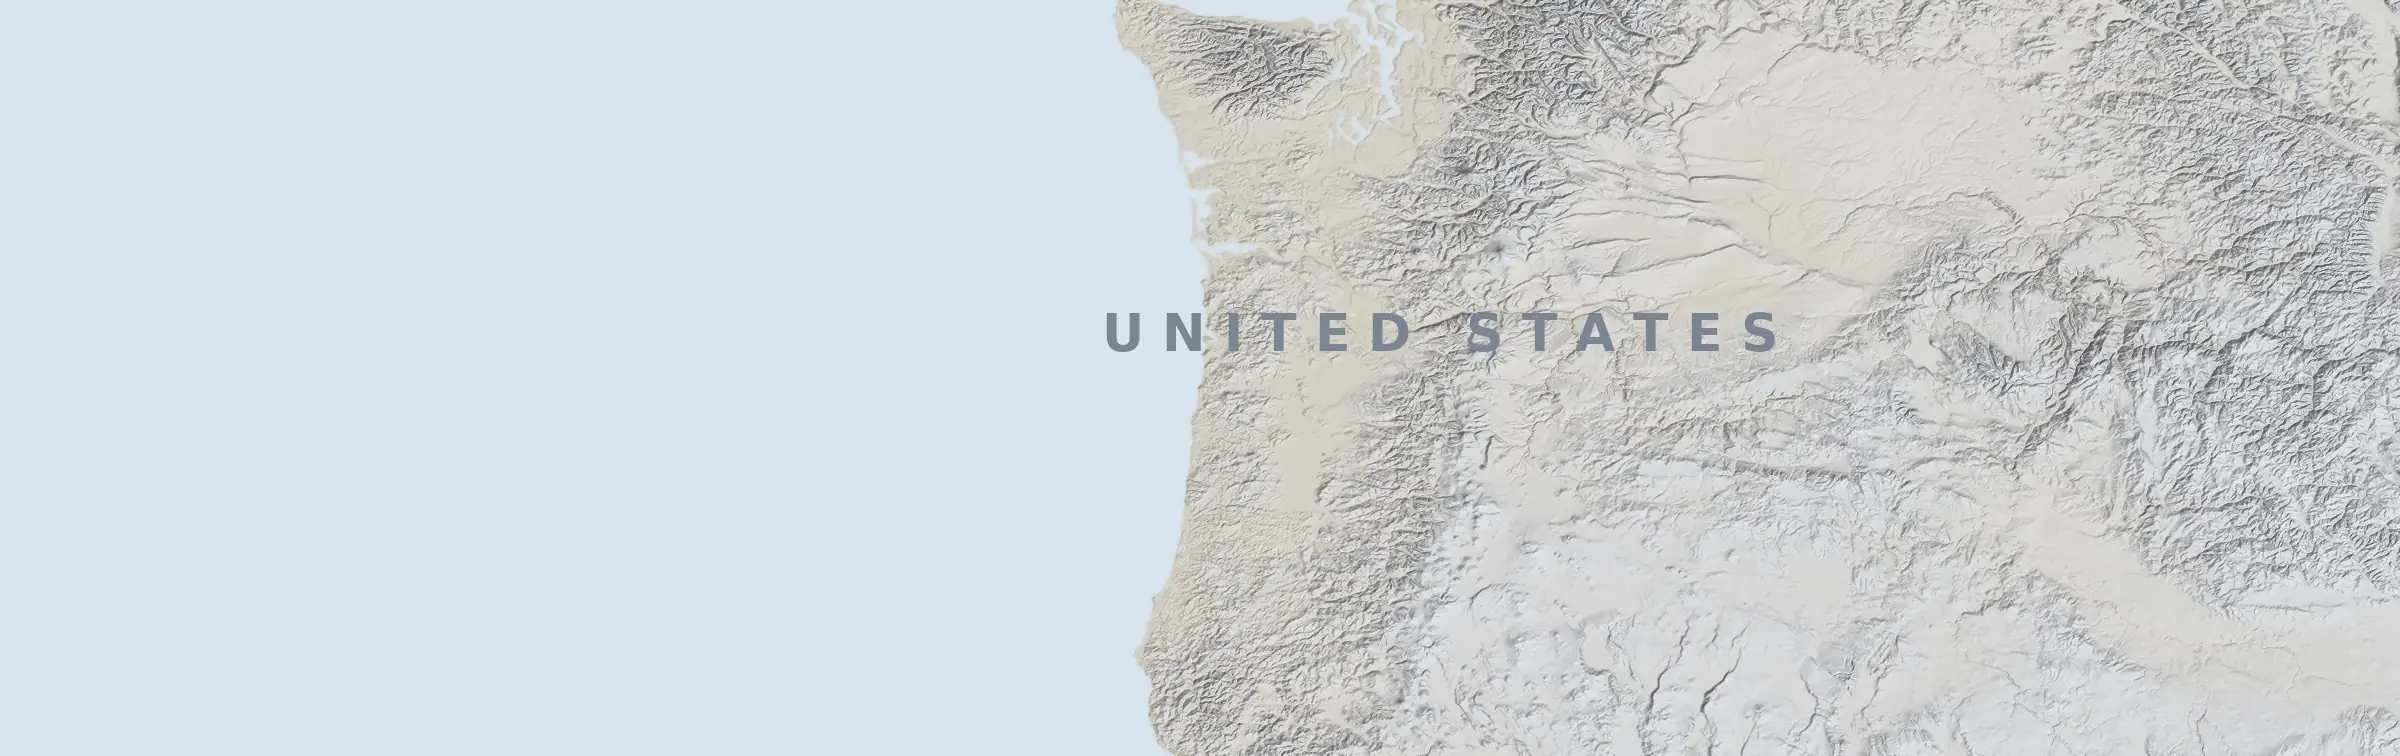
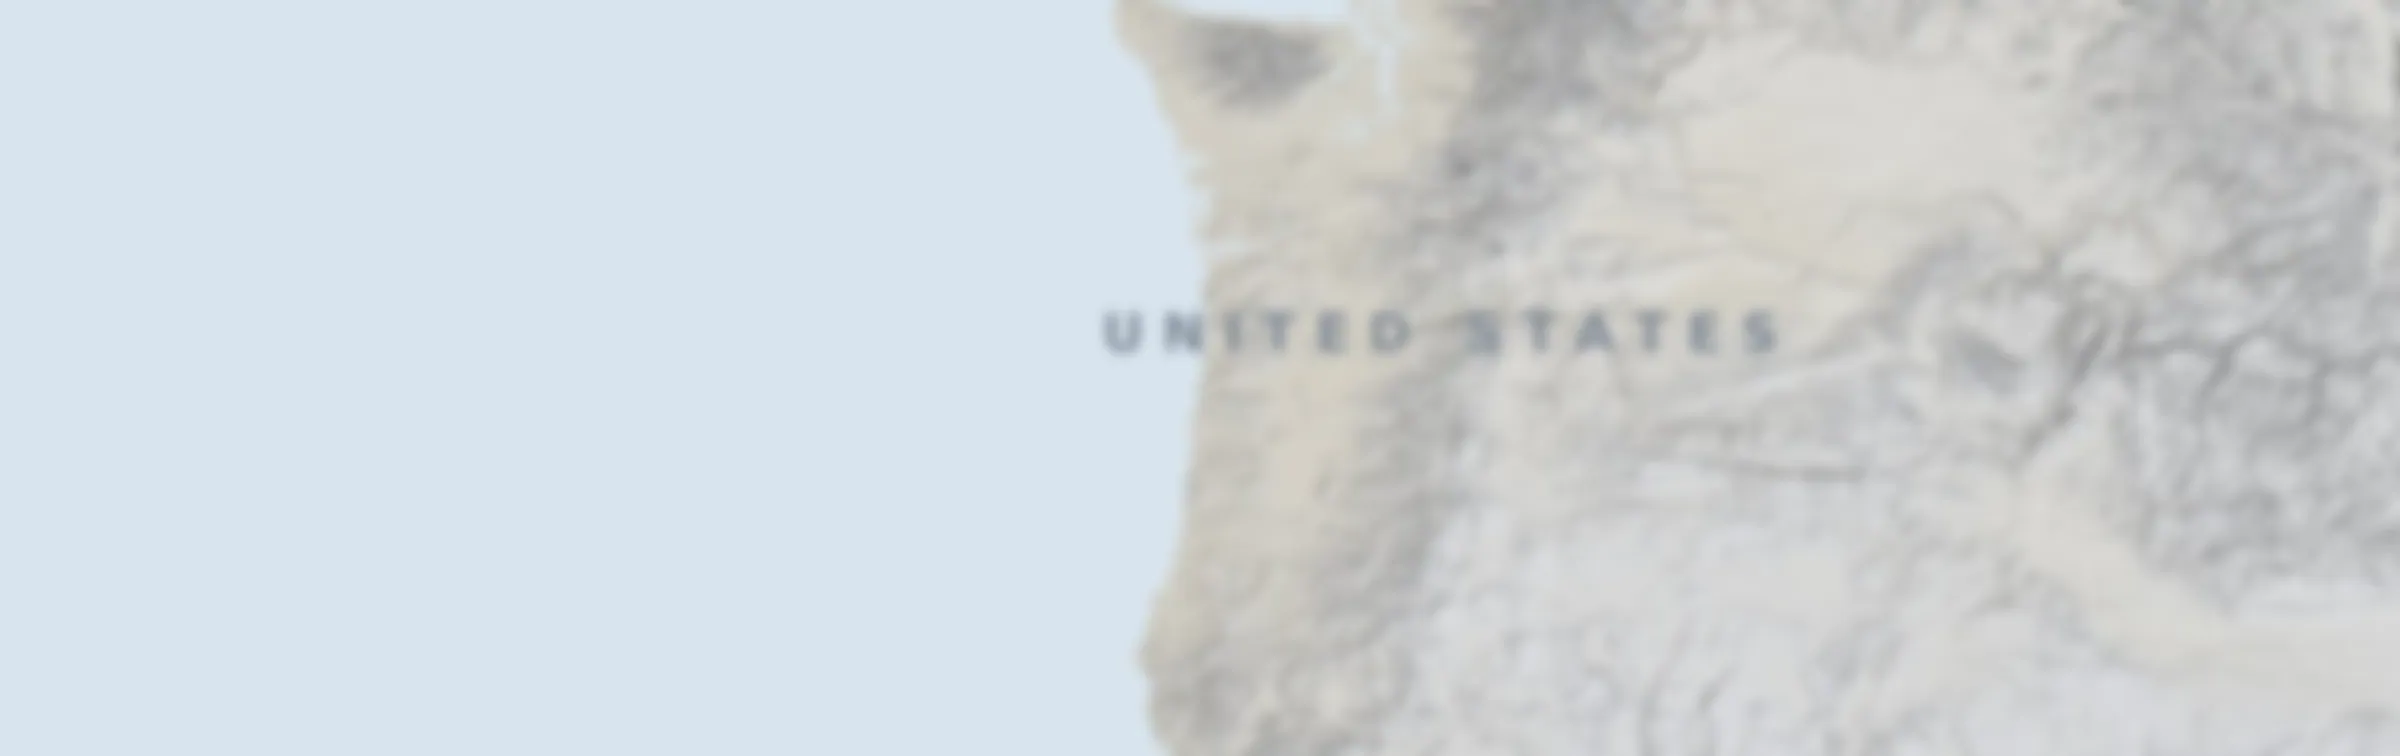
Contractor callbook build 20260905_1553

diff --git a/index.html b/index.html
@@ -335,20 +335,29 @@ a{color:var(--blue);text-decoration:none}
    reading the map through the chip. Off to the side it covers a corner that
    is mostly ocean or blank margin, and it is narrower so it takes less of the
    width with it. */
+/* Was 74% of the width and 21px type, which put it across the middle of the top
+   edge and buried the trunks along the 60th parallel - the northernmost areas
+   sit at about 4.7% down the frame, directly under it. It is a status readout,
+   not a title: corner-sized, capped at 46% of the width, with the trunk line
+   dropped. The full name is one tap away in the sheet. */
 .chanhud{position:absolute;top:12px;left:12px;z-index:5;
-  display:flex;align-items:center;gap:10px;padding:8px 14px;border:0;
-  border-radius:var(--r2);background:#fff;cursor:pointer;
-  box-shadow:var(--e2);
-  font-family:inherit;max-width:calc(100% - 84px);
+  display:inline-flex;align-items:center;gap:7px;height:34px;
+  padding:0 14px 0 11px;border:0;border-radius:999px;
+  background:#fff;cursor:pointer;box-shadow:var(--e2);
+  font-family:inherit;max-width:46%;
   transition:background var(--t1) ease, transform .24s cubic-bezier(.32,.72,0,1)}
-.chanhud .cn{font-size:21px;font-weight:800;color:var(--navy);line-height:1;
+.chanhud .cn{font-size:12.5px;font-weight:700;color:var(--navy);line-height:1;
   letter-spacing:.01em;flex:none}
 .chanhud .cs2{display:flex;flex-direction:column;align-items:flex-start;min-width:0}
-.chanhud .cs2 b{font-size:11.5px;font-weight:700;color:var(--ink);line-height:1.25;
-  white-space:nowrap;overflow:hidden;text-overflow:ellipsis;max-width:200px}
-.chanhud .cs2 i{font-style:normal;font-size:10px;color:var(--muted);line-height:1.25;
-  white-space:nowrap;overflow:hidden;text-overflow:ellipsis;max-width:200px}
+.chanhud .cs2 b{font-size:12.5px;font-weight:700;color:var(--ink);line-height:1;
+  white-space:nowrap;overflow:hidden;text-overflow:ellipsis;max-width:150px}
+/* the trunk name is the widest thing on the chip and it is already printed in
+   full in the hint under the map */
+.chanhud .cs2 i{display:none}
 .chanhud:active{background:#EDEFF2}
+/* Both floating pills sit at the same height and carry the same elevation, so
+   the two corners of the map read as one control set rather than two ideas. */
+.chanhud,.tripill{height:34px;border-radius:999px;box-shadow:var(--e2)}
 .chanhud{cursor:pointer}
 /* Layers belongs at the top, opposite the contextual chip: it changes what the
    map IS, so it does not belong in the bottom cluster with the things that
@@ -611,6 +620,12 @@ html.dark .rd.rd1{stroke:#E8AE3C}
    instead of 50.2%. The United States has been squashed by a third for as long
    as this map has existed, which is why a road crossing the border never met
    its continuation. All four numbers are now derived from the frame. */
+/* The relief stops at 48.3 and the inset starts there - two different hillshade
+   renders with no overlap, so nothing can be cross-faded. Fading one into the
+   other only produced a smear that drew the eye. The inset is now uniformly
+   blurred in the asset instead: south of the border reads as terrain, with no
+   detail to compare against Canada's. The change in sharpness IS the border,
+   which is honest - that is the edge of the data. No gradient here. */
 .southx{position:absolute;pointer-events:none;
   -webkit-user-drag:none;user-select:none;display:block;
   left:1.887%;    /* lon -134 within -134.4..-113.2 */
@@ -1330,7 +1345,7 @@ html,body{overscroll-behavior-y:none}
     </div>
     <button class="hdch" id="hdch" style="display:none" aria-label="Channel for your location"></button>
     <button class="stamp" id="hdrefresh" aria-label="Update to the latest edition" title="Update to the latest edition">
-      <span class="hdver"><b>Beta 2</b><i>5 Sep &middot; 15:49</i></span>
+      <span class="hdver"><b>Beta 2</b><i>5 Sep &middot; 15:53</i></span>
       <svg viewBox="0 0 24 24" fill="none" stroke="currentColor" stroke-width="2.1" stroke-linecap="round" stroke-linejoin="round"><path d="M12 3v10"/><path d="M8 9.5l4 4 4-4"/><path d="M4 17.5h16"/><path d="M4 21h16"/></svg></button>
   </div>
 
